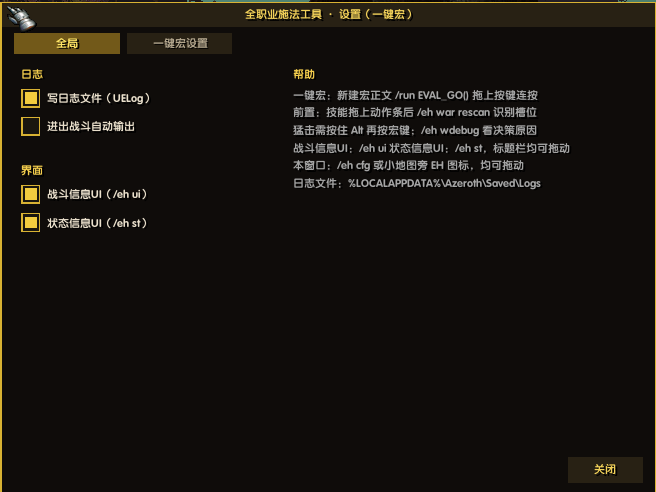
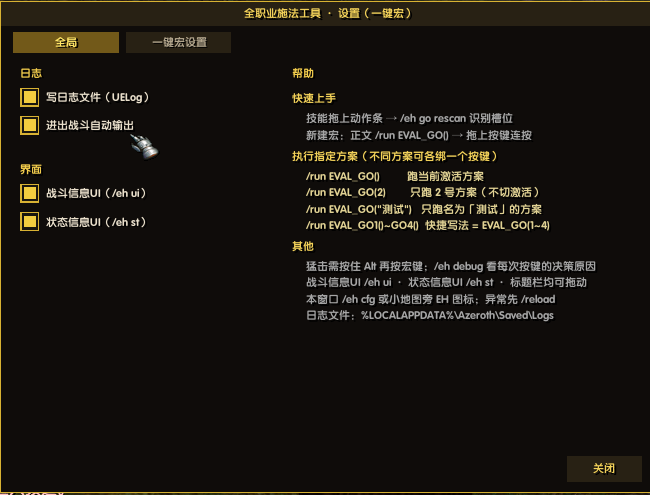
v1.22.0: 删除 EVAL_GO 硬编码姿态/冲锋前置（出手全由方案规则决定），默认模板与示例补等效规则

diff --git a/example/zs_wq.md b/example/zs_wq.md
@@ -1,4 +1,6 @@
 # 方案: 武器战
+- 战斗姿态 | 非战斗 & 非姿态1 & 可攻击
+- 冲锋 | 非战斗 & 姿态1 & 可攻击 & 就绪
 
 > EVAL_HELP 技能方案（v1.8.0+），与游戏内「导入导出 → 武器战示例」内容一致。
 >
